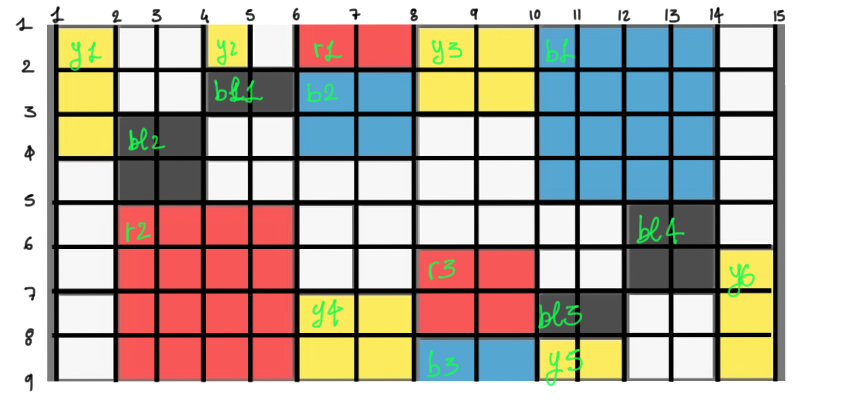
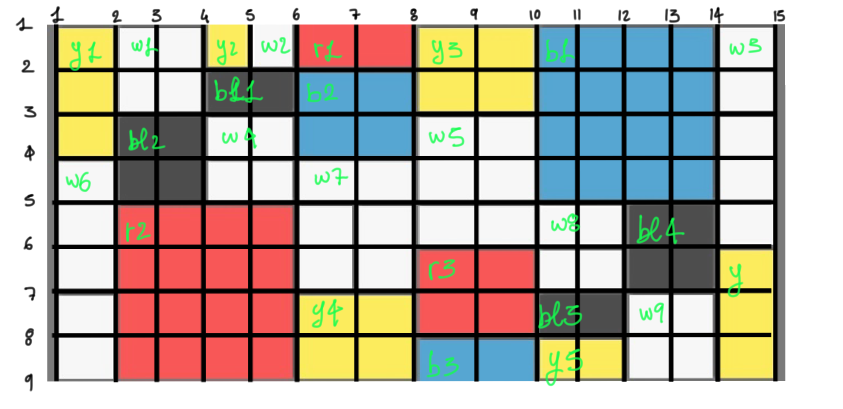
finish mondrian

diff --git a/mondrian/mondrian.html b/mondrian/mondrian.html
@@ -10,118 +10,31 @@
 <body>
   
   <article class="grid-container">
-    <section class="grid-item"></section>
-    <section class="grid-item"></section>
-    <section class="grid-item"></section>
-    <section class="grid-item"></section>
-    <section class="grid-item"></section>
-    <section class="grid-item"></section>
-    <section class="grid-item"></section>
-    <section class="grid-item"></section>
-    <section class="grid-item"></section>
-    <section class="grid-item"></section>
-    <section class="grid-item"></section>
-    <section class="grid-item"></section>
-    <section class="grid-item"></section>
-    <section class="grid-item"></section>
-    <section class="grid-item"></section>
-    <section class="grid-item"></section>
-    <section class="grid-item"></section>
-    <section class="grid-item"></section>
-    <section class="grid-item"></section>
-    <section class="grid-item"></section>
-    <section class="grid-item"></section>
-    <section class="grid-item"></section>
-    <section class="grid-item"></section>
-    <section class="grid-item"></section>
-    <section class="grid-item"></section>
-    <section class="grid-item"></section>
-    <section class="grid-item"></section>
-    <section class="grid-item"></section>
-    <section class="grid-item"></section>
-    <section class="grid-item"></section>
-    <section class="grid-item"></section>
-    <section class="grid-item"></section>
-    <section class="grid-item"></section>
-    <section class="grid-item"></section>
-    <section class="grid-item"></section>
-    <section class="grid-item"></section>
-    <section class="grid-item"></section>
-    <section class="grid-item"></section>
-    <section class="grid-item"></section>
-    <section class="grid-item"></section>
-    <section class="grid-item"></section>
-    <section class="grid-item"></section>
-    <section class="grid-item"></section>
-    <section class="grid-item"></section>
-    <section class="grid-item"></section>
-    <section class="grid-item"></section>
-    <section class="grid-item"></section>
-    <section class="grid-item"></section>
-    <section class="grid-item"></section>
-    <section class="grid-item"></section>
-    <section class="grid-item"></section>
-    <section class="grid-item"></section>
-    <section class="grid-item"></section>
-    <section class="grid-item"></section>
-    <section class="grid-item"></section>
-    <section class="grid-item"></section>
-    <section class="grid-item"></section>
-    <section class="grid-item"></section>
-    <section class="grid-item"></section>
-    <section class="grid-item"></section>
-    <section class="grid-item"></section>
-    <section class="grid-item"></section>
-    <section class="grid-item"></section>
-    <section class="grid-item"></section>
-    <section class="grid-item"></section>
-    <section class="grid-item"></section>
-    <section class="grid-item"></section>
-    <section class="grid-item"></section>
-    <section class="grid-item"></section>
-    <section class="grid-item"></section>
-    <section class="grid-item"></section>
-    <section class="grid-item"></section>
-    <section class="grid-item"></section>
-    <section class="grid-item"></section>
-    <section class="grid-item"></section>
-    <section class="grid-item"></section>
-    <section class="grid-item"></section>
-    <section class="grid-item"></section>
-    <section class="grid-item"></section>
-    <section class="grid-item"></section>
-    <section class="grid-item"></section>
-    <section class="grid-item"></section>
-    <section class="grid-item"></section>
-    <section class="grid-item"></section>
-    <section class="grid-item"></section>
-    <section class="grid-item"></section>
-    <section class="grid-item"></section>
-    <section class="grid-item"></section>
-    <section class="grid-item"></section>
-    <section class="grid-item"></section>
-    <section class="grid-item"></section>
-    <section class="grid-item"></section>
-    <section class="grid-item"></section>
-    <section class="grid-item"></section>
-    <section class="grid-item"></section>
-    <section class="grid-item"></section>
-    <section class="grid-item"></section>
-    <section class="grid-item"></section>
-    <section class="grid-item"></section>
-    <section class="grid-item"></section>
-    <section class="grid-item"></section>
-    <section class="grid-item"></section>
-    <section class="grid-item"></section>
-    <section class="grid-item"></section>
-    <section class="grid-item"></section>
-    <section class="grid-item"></section>
-    <section class="grid-item"></section>
-    <section class="grid-item"></section>
-    <section class="grid-item"></section>
-    <section class="grid-item"></section>
-    <section class="grid-item"></section>
-    <section class="grid-item"></section>
+    <section class="grid-item y1"></section>
+    <section class="grid-item y2"></section>
+    <section class="grid-item y3"></section>
+    <section class="grid-item y4"></section>
+    <section class="grid-item y5"></section>
+    <section class="grid-item y6"></section>
+    <section class="grid-item r1"></section>
+    <section class="grid-item r2"></section>
+    <section class="grid-item r3"></section>
+    <section class="grid-item b1"></section>
+    <section class="grid-item b2"></section>
+    <section class="grid-item b3"></section>
+    <section class="grid-item bl1"></section>
+    <section class="grid-item bl2"></section>
+    <section class="grid-item bl3"></section>
+    <section class="grid-item bl4"></section>
+    <section class="grid-item w1"></section>
+    <section class="grid-item w2"></section>
+    <section class="grid-item w3"></section>
+    <section class="grid-item w4"></section>
+    <section class="grid-item w5"></section>
+    <section class="grid-item w6"></section>
+    <section class="grid-item w7"></section>
+    <section class="grid-item w8"></section>
+    <section class="grid-item w9"></section>
   </article>
 
 </body>

diff --git a/mondrian/mondrian.css b/mondrian/mondrian.css
@@ -2,7 +2,173 @@
   box-sizing: border-box;
 }
 
-body{
+body {
   height:100vh;
-  
+
+  margin: 0;
+
+  background-color: black;
+}
+
+.grid-container {
+  height:100%;
+
+  margin: 0 10pt 0 10pt;
+
+  display:grid;
+  grid-template-columns: 1.5fr repeat(4, 1fr) repeat(4, 1.5fr) repeat(4, 1fr)  1.5fr;
+  grid-template-rows: repeat(8, 1fr);
+}
+
+.grid-item{
+  border: solid 5pt rgb(26, 26, 26);
+}
+
+.y1 {
+  background-color: yellow;
+  grid-column: 1/2;
+  grid-row: 1/4;
+}
+
+.y2 {
+  background-color: yellow;
+  grid-column: 4/5;
+}
+
+.y3 {
+  background-color: yellow;
+  grid-column: 8/10;
+  grid-row: 1/3;
+}
+
+.y4 {
+  background-color: yellow;
+  grid-column: 6/8;
+  grid-row: 7/9;
+}
+
+.y5 {
+  background-color: yellow;
+  grid-column: 10/12;
+  grid-row: 8/9;
+}
+
+.y6 {
+  background-color: yellow;
+  grid-column: 14/15;
+  grid-row: 6/9;
+}
+
+.r1 {
+  background-color: red;
+  grid-column: 6/8;
+  grid-row: 1/2;
+}
+
+.r2 {
+  background-color: red;
+  grid-column: 2/6;
+  grid-row: 5/9;
+}
+
+.r3 {
+  background-color: red;
+  grid-column: 8/10;
+  grid-row: 6/8;
+}
+
+.b1 {
+  background-color: #0d7fbe ;
+  grid-column: 6/8;
+  grid-row: 2/4;
+}
+
+.b2 {
+  background-color: #0d7fbe;
+  grid-column: 10/14;
+  grid-row: 1/5;
+}
+
+.b3 {
+  background-color: #0d7fbe;
+  grid-column: 8/10;
+  grid-row: 8/9;
+}
+
+.bl1 {
+  background-color: black;
+  grid-column: 4/6;
+  grid-row: 2/3;
+}
+
+.bl2 {
+  background-color: black;
+  grid-column: 2/4;
+  grid-row: 3/5;
+}
+
+.bl3 {
+  background-color: black;
+  grid-column: 10/12;
+  grid-row: 7/8;
+}
+
+.bl4 {
+  background-color: black;
+  grid-column: 12/14;
+  grid-row: 5/7;
+}
+
+.w1 {
+  background-color: white;
+  grid-column: 2/4;
+  grid-row: 1/3;
+}
+
+.w2 {
+  background-color: white;
+  grid-column: 5/6;
+  grid-row: 1/2;
+}
+
+.w3 {
+  background-color: white;
+  grid-column: 14/15;
+  grid-row: 1/6;
+}
+
+.w4 {
+  background-color: white;
+  grid-column: 4/6;
+  grid-row: 3/5;
+}
+
+.w5 {
+  background-color: white;
+  grid-column: 8/10;
+  grid-row: 3/6;
+}
+
+.w6 {
+  background-color: white;
+  grid-column: 1/2;
+  grid-row: 4/9;
+}
+
+.w7 {
+  background-color: white;
+  grid-column: 6/8;
+  grid-row: 4/7;
+}
+
+.w8 {
+  background-color: white;
+  grid-column: 10/12;
+  grid-row: 5/7;
+}
+
+.w9 {
+  background-color: white;
+  grid-column: 12/14;
+  grid-row: 7/9;
 }
